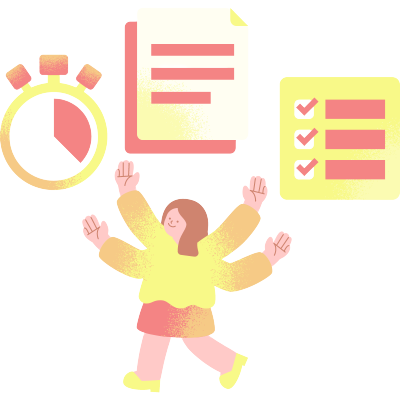
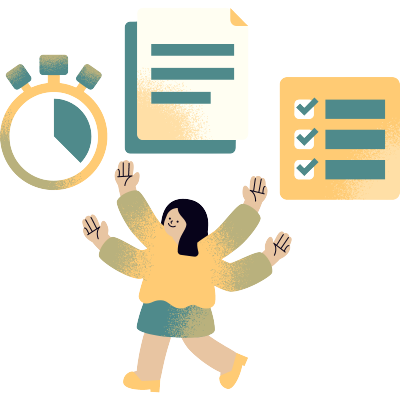
change color scheme

Changed region(s): [[0.21, 0.03, 1.0, 0.99], [0.0, 0.12, 0.27, 0.48], [0.57, 0.03, 0.63, 0.09]]

diff --git a/static/css/styles.css b/static/css/styles.css
@@ -1,10 +1,10 @@
 :root {
-  --first: #C0EEE4;
-  --second: #F8F988;
-  --third: #FFCAC8;
-  --fourth: #F48484
-
+  --first: #FFCB74;
+  --second: #B1B493;
+  --third: #4F8A8B;
+  --fourth: #07031A
 }
+
 body {
   min-height: 100vh;
   display: flex;
@@ -87,6 +87,10 @@ body {
 a {
   font-weight: bold;
     color: var(--first);
+}
+a:hover {
+  font-weight: bold;
+    color: var(--third);
 }
 th {
     color: var(--fourth);
